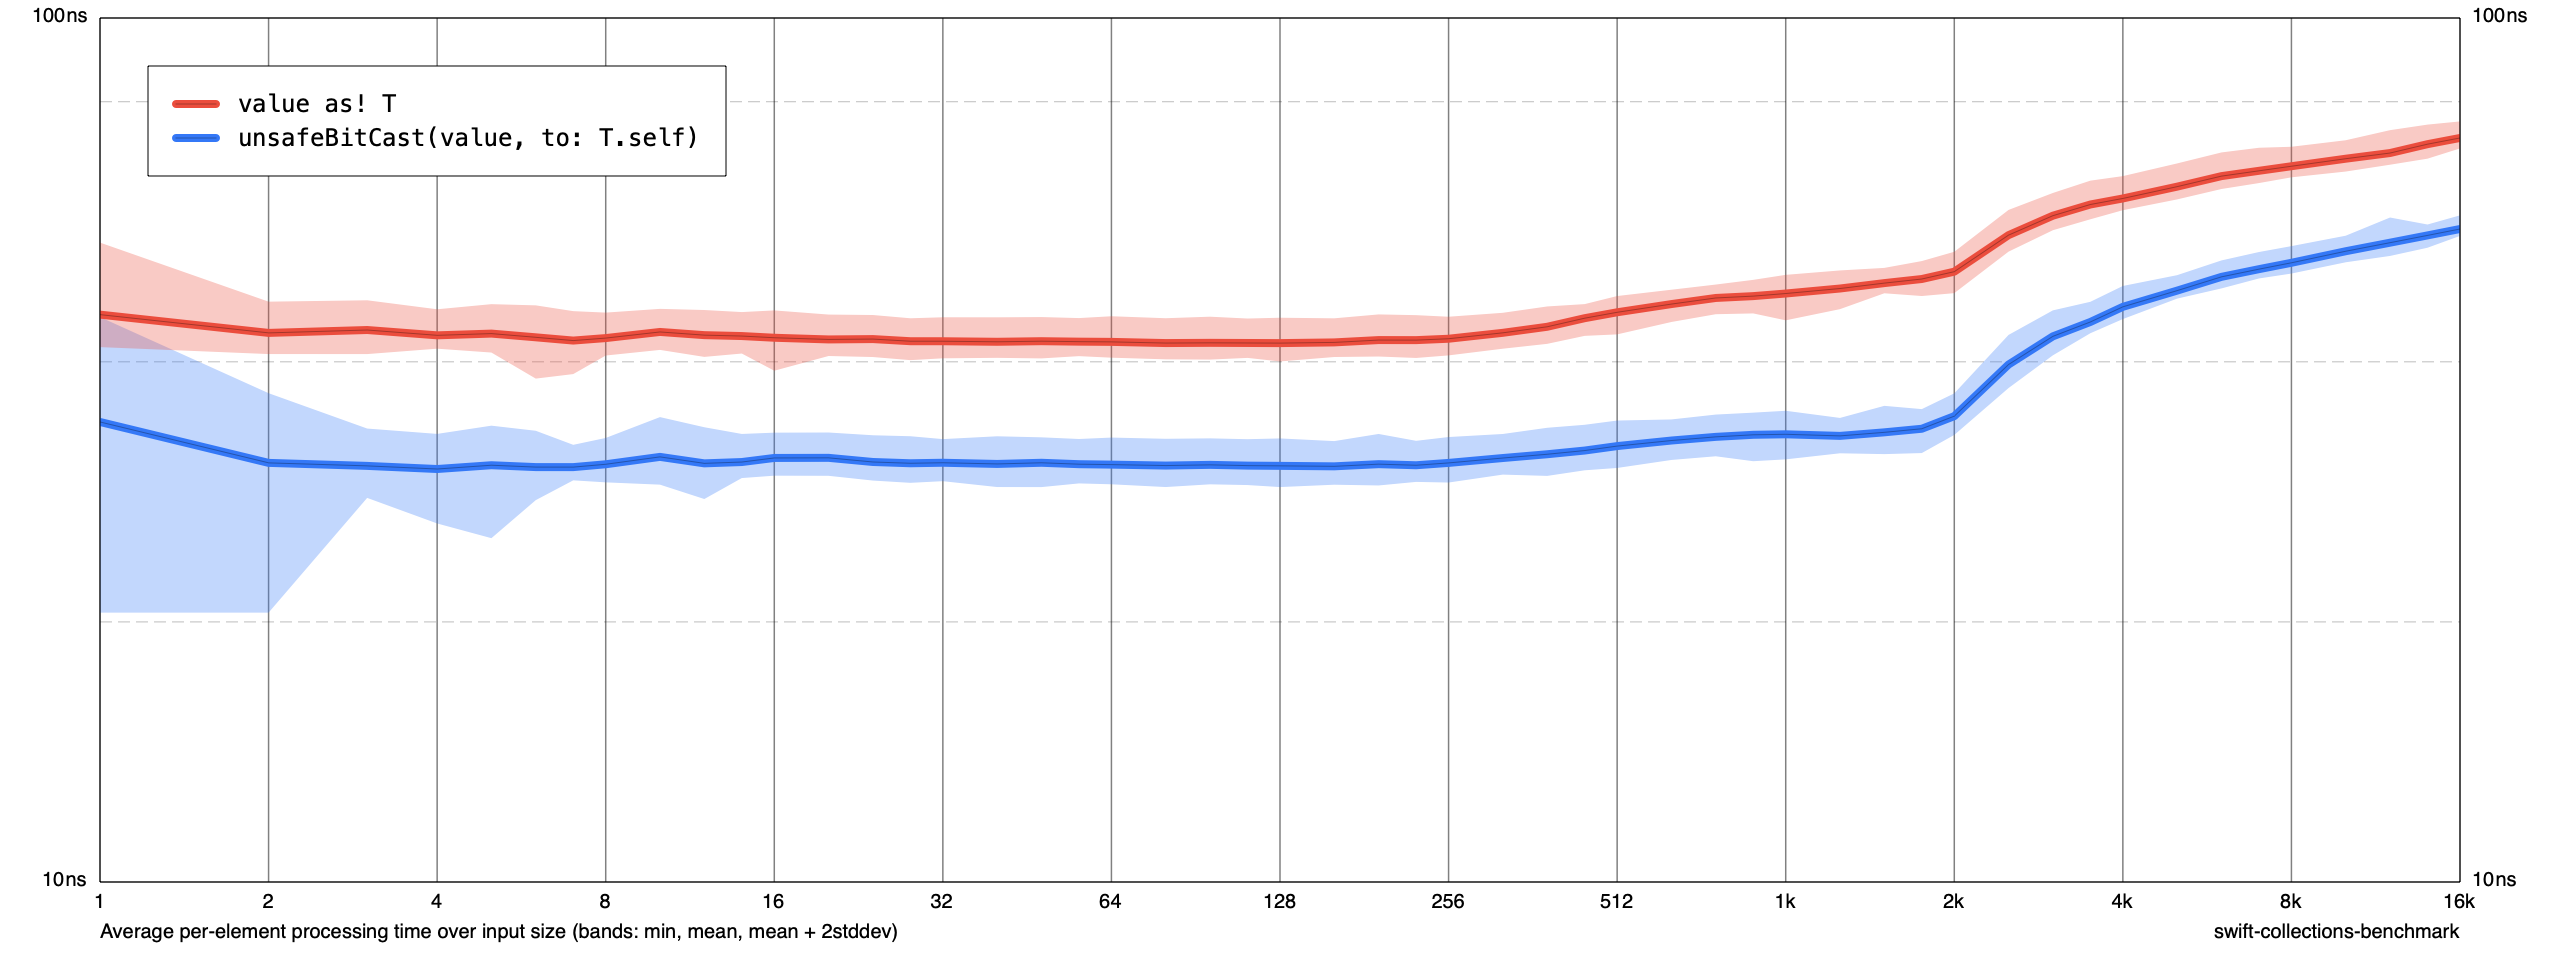
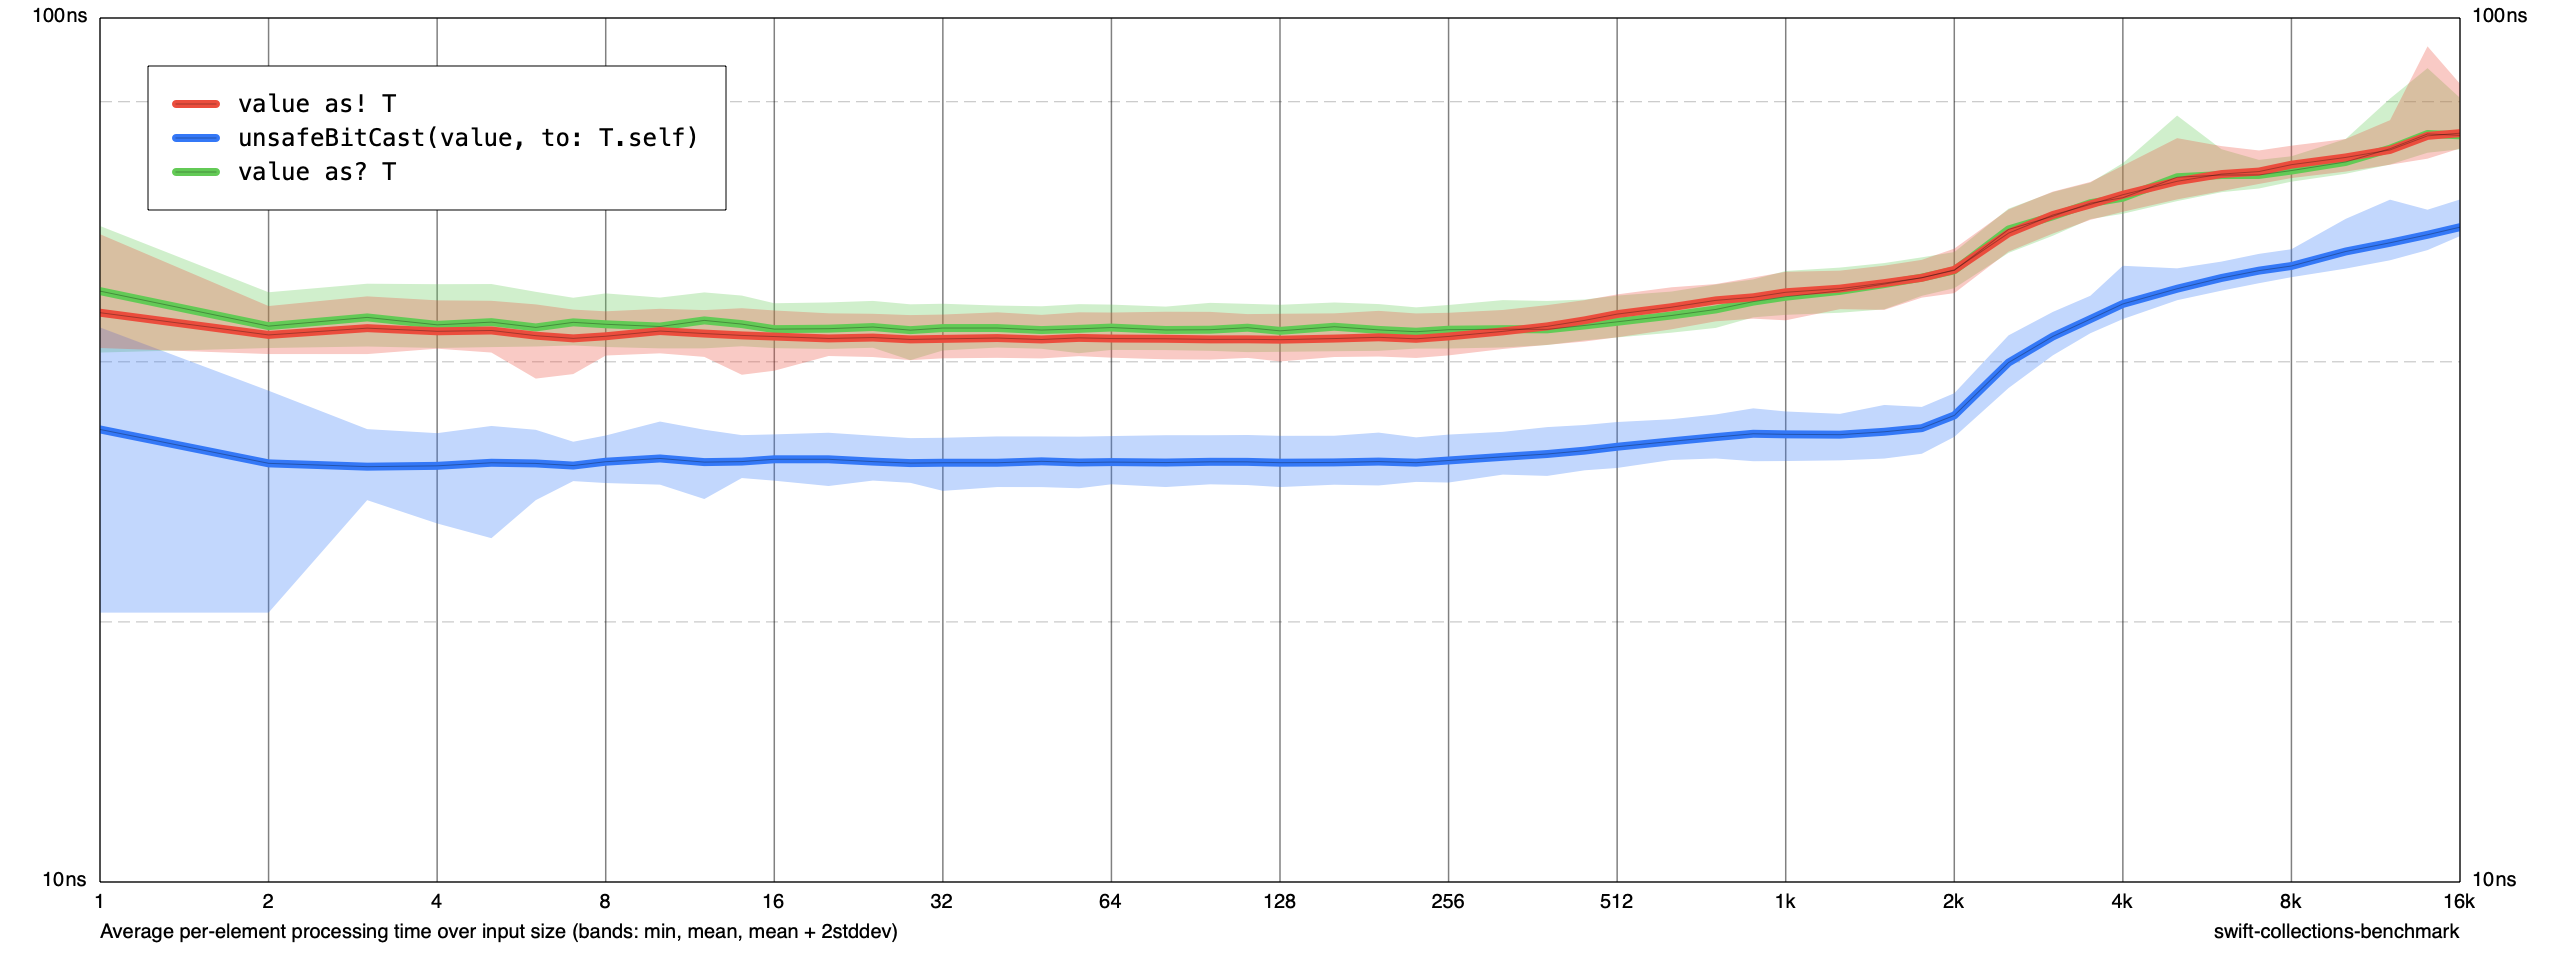
20k optional

diff --git a/Sources/StorageBenchmark/Storage.swift b/Sources/StorageBenchmark/Storage.swift
@@ -19,6 +19,23 @@ final class StorageSafeCasting: Storage {
     }
 }
 
+final class StorageSafeOptionalCasting: Storage {
+    typealias Key = ObjectIdentifier
+
+    private var _storage: [Key: Any] = [:]
+
+    public func get<T: Container>(_ type: T.Type) -> T {
+        let key = Key(type)
+        if let value = _storage[key] as? T {
+            return value
+        }
+
+        let value = type.init()
+        _storage[key] = value
+        return value
+    }
+}
+
 final class StorageUnsafeCasting: Storage {
     typealias Key = ObjectIdentifier
 
@@ -27,7 +44,6 @@ final class StorageUnsafeCasting: Storage {
     func get<T: Container>(_ type: T.Type) -> T {
         let key = Key(type)
         if let value = _storage[key] {
-//            return value as! T
             return unsafeDowncast(value, to: T.self)
         }
 

diff --git a/Sources/StorageBenchmark/main.swift b/Sources/StorageBenchmark/main.swift
@@ -3,6 +3,7 @@ import CollectionsBenchmark
 // Create a new benchmark instance.
 var benchmark = Benchmark(title: "Storage")
 let safeStorage = StorageSafeCasting()
+let safeOptionalStorage = StorageSafeOptionalCasting()
 let unsafeStorage = StorageUnsafeCasting()
 
 
@@ -18,7 +19,18 @@ benchmark.addSimple(
 }
 
 benchmark.addSimple(
-    title: "unsafeBitCast(value, to: T.self)",
+    title: "value as? T",
+    input: [Int].self
+) { input in
+    blackHole(input.forEach({ index in
+        guard index < benchmarks.count else { return }
+        let work = benchmarks[index]
+        work(safeOptionalStorage)
+    }))
+}
+
+benchmark.addSimple(
+    title: "unsafeDowncast(value, to: T.self)",
     input: [Int].self
 ) { input in
     blackHole(input.forEach({ index in
